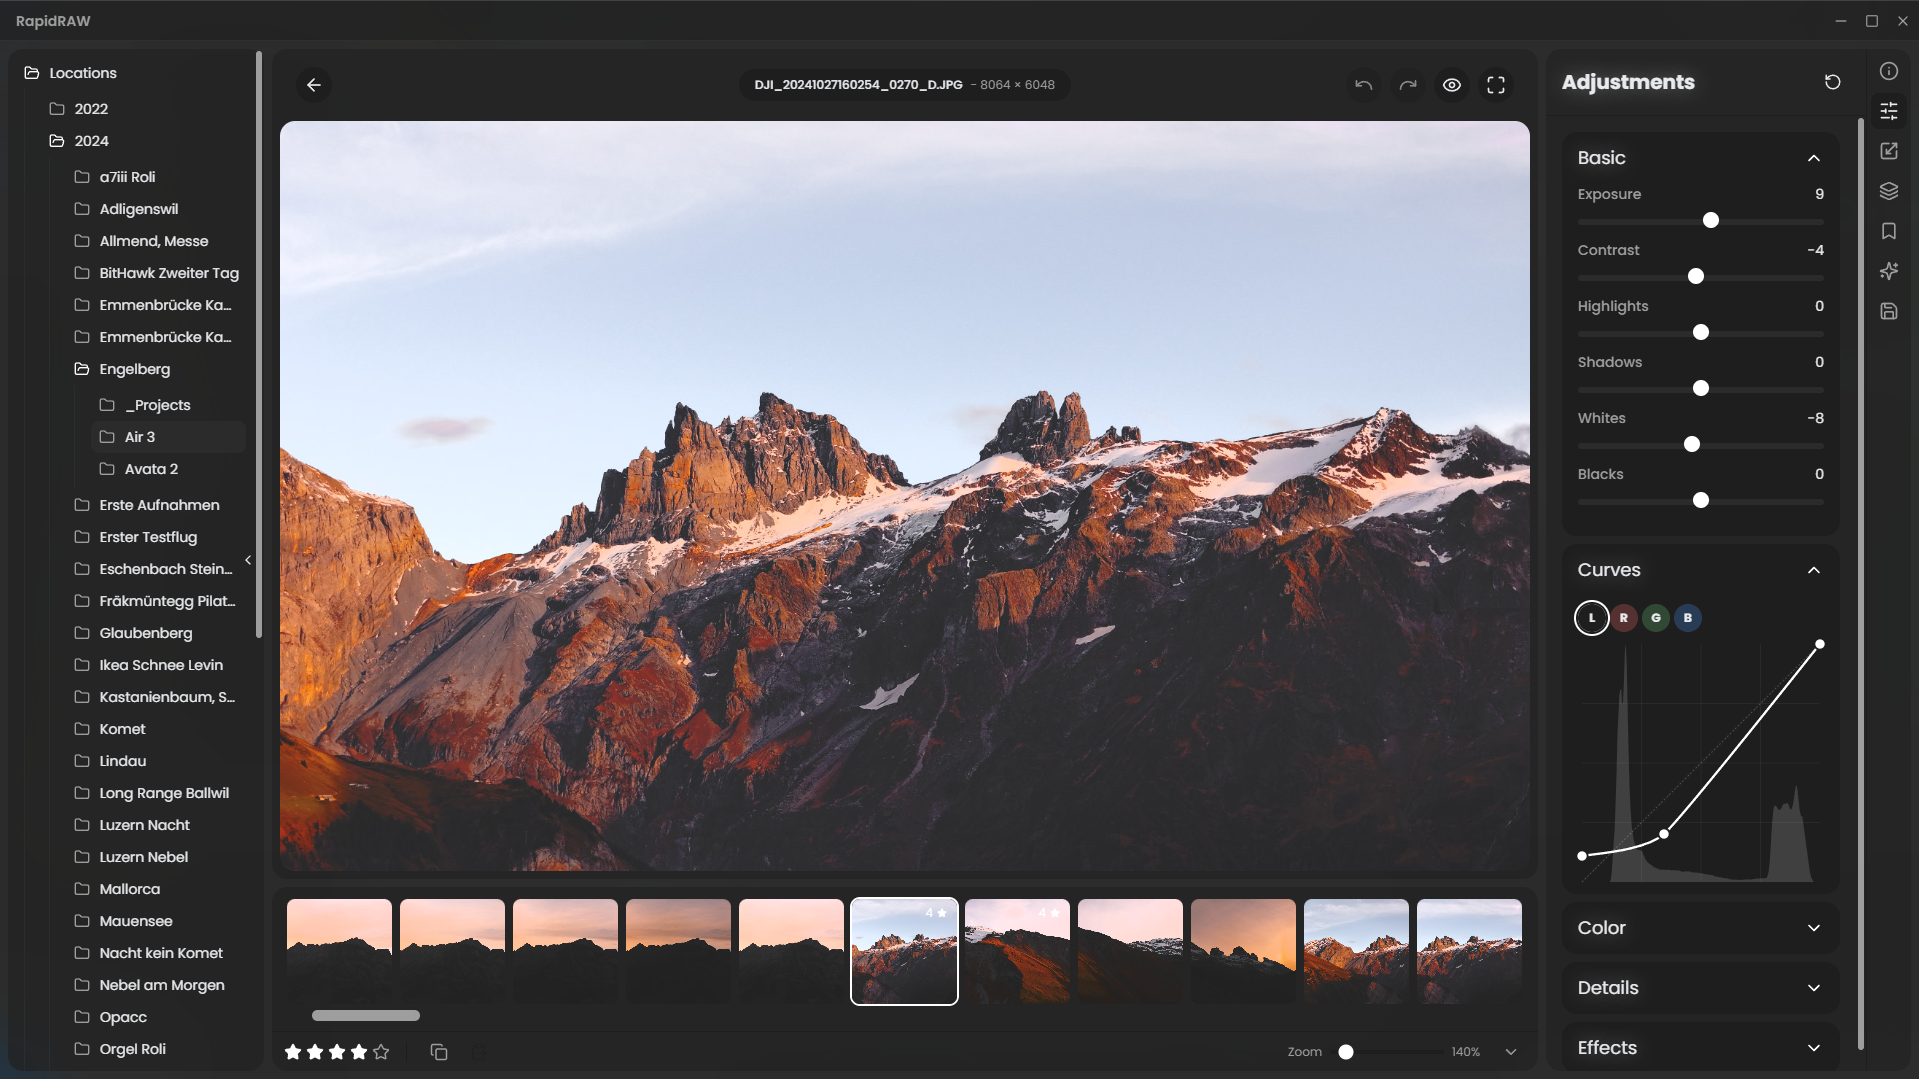
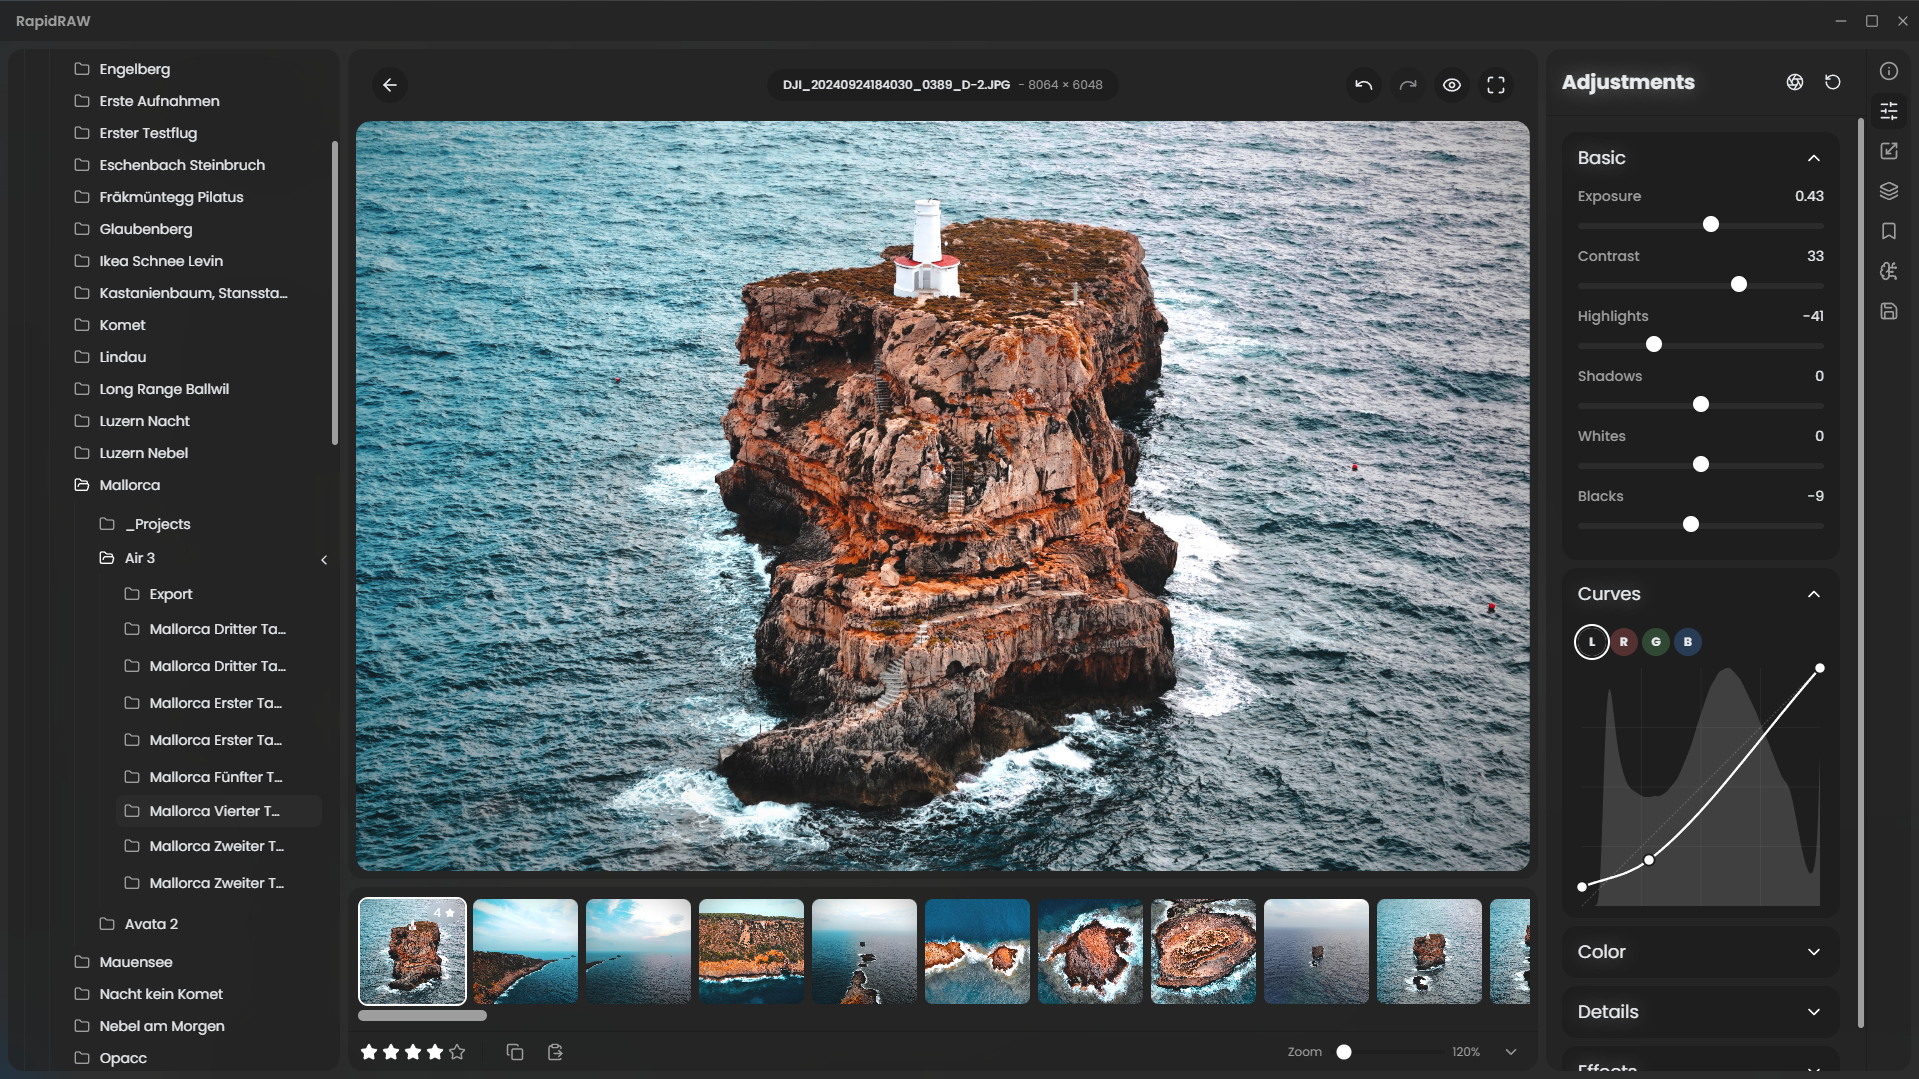
show foldertree open / close chevrons only on hover

diff --git a/src/components/panel/FolderTree.jsx b/src/components/panel/FolderTree.jsx
@@ -1,10 +1,10 @@
+import { useState } from 'react';
 import { Folder, FolderOpen, ChevronLeft, ChevronRight, ChevronUp, ChevronDown } from 'lucide-react';
 import clsx from 'clsx';
 import { motion, AnimatePresence } from 'framer-motion';
 
-function TreeNode({ node, onFolderSelect, selectedPath, isExpanded, onToggle, onContextMenu, expandedFolders }) {
+function TreeNode({ node, onFolderSelect, selectedPath, isExpanded, onToggle, onContextMenu, expandedFolders, isTreeHovered }) {
   const hasChildren = node.children && node.children.length > 0;
-  const childFolders = node.children && node.children.map(item => item.is_dir).length > 0;
   const isSelected = node.path === selectedPath;
 
   const handleFolderIconClick = (e) => {
@@ -74,17 +74,20 @@ function TreeNode({ node, onFolderSelect, selectedPath, isExpanded, onToggle, on
         >
           {node.name}
         </span>
+        
         <div
           onClick={handleFolderIconClick}
+          className={clsx(
+            'p-0.5 rounded hover:bg-surface transition-opacity duration-200',
+            {
+              'cursor-pointer': hasChildren,
+              'cursor-default': !hasChildren,
+              'opacity-100': hasChildren && isTreeHovered,
+              'opacity-0': hasChildren && !isTreeHovered,
+            }
+          )}
         >
-        <div
-          onClick={handleFolderIconClick}
-          className={clsx('p-0.5 rounded hover:bg-surface', {
-            'cursor-pointer': childFolders,
-            'cursor-default': !childFolders,
-          })}
-        >
-          {childFolders ? (
+          {hasChildren ? (
             isExpanded ? (
               <ChevronUp size={16} className="text-text-secondary flex-shrink-0" />
             ) : (
@@ -93,7 +96,6 @@ function TreeNode({ node, onFolderSelect, selectedPath, isExpanded, onToggle, on
           ) : (
             <span className="w-4 h-4 inline-block" />
           )}
-        </div>
         </div>
       </div>
 
@@ -127,6 +129,7 @@ function TreeNode({ node, onFolderSelect, selectedPath, isExpanded, onToggle, on
                       onToggle={onToggle}
                       onContextMenu={onContextMenu}
                       expandedFolders={expandedFolders}
+                      isTreeHovered={isTreeHovered}
                     />
                   </motion.div>
                 ))}
@@ -140,6 +143,8 @@ function TreeNode({ node, onFolderSelect, selectedPath, isExpanded, onToggle, on
 }
 
 export default function FolderTree({ tree, onFolderSelect, selectedPath, isLoading, isVisible, setIsVisible, style, isResizing, onContextMenu, expandedFolders, onToggleFolder }) {
+  const [isHovered, setIsHovered] = useState(false);
+
   const handleEmptyAreaContextMenu = (e) => {
     if (e.target === e.currentTarget) {
       onContextMenu(e, null);
@@ -148,6 +153,8 @@ export default function FolderTree({ tree, onFolderSelect, selectedPath, isLoadi
   
   return (
     <div
+      onMouseEnter={() => setIsHovered(true)}
+      onMouseLeave={() => setIsHovered(false)}
       className={clsx(
         'relative bg-bg-secondary rounded-lg flex-shrink-0',
         !isResizing && 'transition-[width] duration-300 ease-in-out'
@@ -177,6 +184,7 @@ export default function FolderTree({ tree, onFolderSelect, selectedPath, isLoadi
                 onToggle={onToggleFolder}
                 onContextMenu={onContextMenu}
                 expandedFolders={expandedFolders}
+                isTreeHovered={isHovered}
               />
               {tree.children.length === 0 && (
                 <div className="text-xs text-text-secondary mt-2 px-2">
